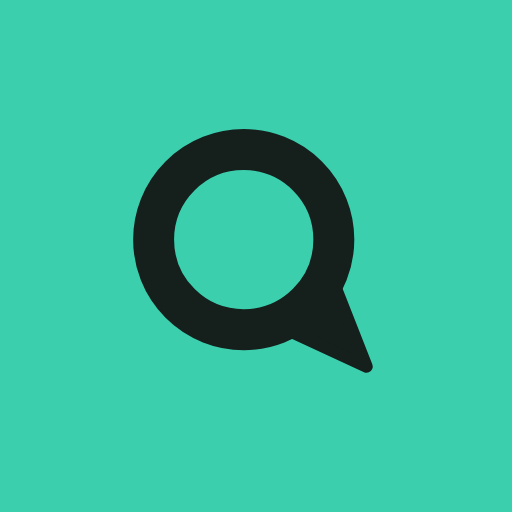
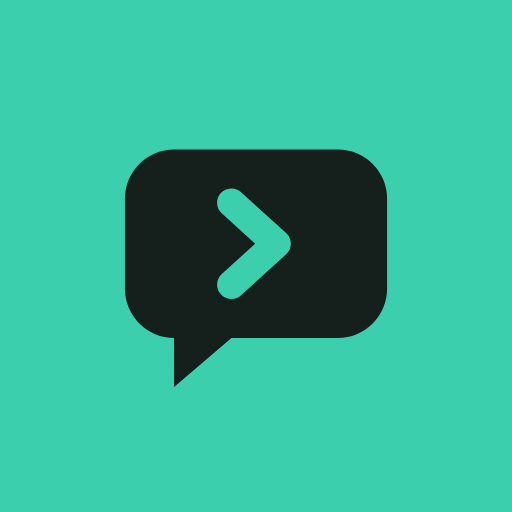
feat: 서비스 이름을 Say&Go로 변경
- 앱 이름 Say&Go (모든 언어 공통), 새 아이콘(말풍선 + 가자), QR 포스터·소개 문구
- Firebase 새 프로젝트 sayandgo-prod(서울)로 이전: DB·규칙·인덱스·로그인 방식 배포
- Cloudflare Pages sayandgo.pages.dev, 저장소 이름 sayandgo
- 코드 내부 이름(패키지, 기기 저장 키, 에뮬레이터 데모 프로젝트, 샘플 계정) 정리

Changed region(s): [[0.2188, 0.25, 0.7812, 0.75]]

diff --git a/web/src/lib/firebase.ts b/web/src/lib/firebase.ts
@@ -10,12 +10,12 @@ import {
 
 const env = import.meta.env;
 
-/** 실제 프로젝트 설정이 없으면 로컬 에뮬레이터(demo-qplace)로 붙는다. */
+/** 실제 프로젝트 설정이 없으면 로컬 에뮬레이터(demo-sayandgo)로 붙는다. */
 export const usingEmulator = env.VITE_USE_EMULATOR === 'true' || !env.VITE_FIREBASE_API_KEY;
 
 const app = initializeApp(
   usingEmulator
-    ? { apiKey: 'demo-key', authDomain: 'demo-qplace.firebaseapp.com', projectId: 'demo-qplace', appId: 'demo' }
+    ? { apiKey: 'demo-key', authDomain: 'demo-sayandgo.firebaseapp.com', projectId: 'demo-sayandgo', appId: 'demo' }
     : {
         apiKey: env.VITE_FIREBASE_API_KEY,
         authDomain: env.VITE_FIREBASE_AUTH_DOMAIN,
@@ -49,7 +49,7 @@ if (usingEmulator) {
   // 에뮬레이터 전용: ?devLogin=1 이면 샘플 사장님으로 로그인 (scripts/seed-emulator.mjs의 계정)
   if (typeof location !== 'undefined' && new URLSearchParams(location.search).has('devLogin')) {
     import('firebase/auth').then(({ signInWithEmailAndPassword }) =>
-      signInWithEmailAndPassword(auth, 'demo@qplace.test', 'coffee2024').catch(() => undefined),
+      signInWithEmailAndPassword(auth, 'demo@sayandgo.test', 'coffee2024').catch(() => undefined),
     );
   }
 }

diff --git a/web/src/pages/StorePage.tsx b/web/src/pages/StorePage.tsx
@@ -30,7 +30,7 @@ import { getStore } from '../lib/stores';
 import { QUESTION_KINDS, type Question, type QuestionKind, type Store } from '../lib/types';
 import { checkQuestion, LIMITS, tidyText } from '../lib/validation';
 
-const LAST_POST_KEY = 'qplace:lastPost';
+const LAST_POST_KEY = 'sayandgo:lastPost';
 const WAIT_SEC = 30;
 
 export function StorePage() {
@@ -312,7 +312,7 @@ function readLastPost(): number {
 /** 남기기: 종류 고르기 + 사장님만 보기 + 익명 안내. 버튼을 눌렀을 때만 열린다. */
 function ComposeSheet({ store, onClose, onPosted }: { store: Store; onClose: () => void; onPosted: (q: Question) => void }) {
   const { t } = useTranslation();
-  const draftKey = `qplace:draft:${store.code}`;
+  const draftKey = `sayandgo:draft:${store.code}`;
   const [text, setText] = useState(() => sessionStorage.getItem(draftKey) ?? '');
   const [kind, setKind] = useState<QuestionKind>('question');
   const [ownerOnly, setOwnerOnly] = useState(false);

diff --git a/web/src/components/ui/AppMark.tsx b/web/src/components/ui/AppMark.tsx
@@ -1,10 +1,10 @@
-/** 앱 아이콘 (public/favicon.svg와 같은 모양) */
+/** 앱 아이콘 (public/favicon.svg와 같은 모양): 말풍선 + 가자(›) */
 export function AppMark({ size = 56 }: { size?: number }) {
   return (
     <svg width={size} height={size} viewBox="0 0 100 100" aria-hidden="true">
       <rect width="100" height="100" rx="24" fill="#3ccfae" />
-      <circle cx="47" cy="46" r="22" fill="none" stroke="#15201d" strokeWidth="10" />
-      <path d="M68.8 56.1 L77 77 L57.1 67.8 Z" fill="#15201d" stroke="#15201d" strokeWidth="3" strokeLinejoin="round" />
+      <path d="M30 24h40a12 12 0 0 1 12 12v22a12 12 0 0 1-12 12H44l-14 12v-12a12 12 0 0 1-12-12V36a12 12 0 0 1 12-12Z" fill="#15201d" />
+      <path d="M44 37l11 10-11 10" fill="none" stroke="#3ccfae" strokeWidth="7" strokeLinecap="round" strokeLinejoin="round" />
     </svg>
   );
 }

diff --git a/web/src/lib/questions.ts b/web/src/lib/questions.ts
@@ -83,7 +83,7 @@ export function fetchPublicPage(code: string, sort: PublicSort, cursor: QueryDoc
 
 // ---------- 도움됐어요 ----------
 
-const votedKey = 'qplace:helpful';
+const votedKey = 'sayandgo:helpful';
 
 export function votedIds(): Set<string> {
   try {
@@ -135,7 +135,7 @@ async function ensureSignedIn(): Promise<User> {
   return auth.currentUser ?? (await signInAnonymously(auth)).user;
 }
 
-const mineKey = (code: string) => `qplace:mine:${code}`;
+const mineKey = (code: string) => `sayandgo:mine:${code}`;
 
 export function myQuestionIds(code: string): Set<string> {
   try {
@@ -183,7 +183,7 @@ export async function postQuestion(code: string, body: string, lang: string, kin
 }
 
 
-const reportedKey = 'qplace:reported';
+const reportedKey = 'sayandgo:reported';
 
 export function alreadyReported(targetId: string): boolean {
   try {

diff --git a/web/src/i18n/index.ts b/web/src/i18n/index.ts
@@ -19,7 +19,7 @@ i18n
     nonExplicitSupportedLngs: true, // ko-KR → ko
     load: 'languageOnly',
     // 국가보다 브라우저 언어 우선. 직접 고른 언어는 기억한다.
-    detection: { order: ['localStorage', 'navigator'], lookupLocalStorage: 'qplace:lang', caches: ['localStorage'] },
+    detection: { order: ['localStorage', 'navigator'], lookupLocalStorage: 'sayandgo:lang', caches: ['localStorage'] },
     interpolation: { escapeValue: false },
     returnObjects: true,
   });

diff --git a/web/index.html b/web/index.html
@@ -12,7 +12,7 @@
     <link rel="preconnect" href="https://cdn.jsdelivr.net" crossorigin />
     <!-- 필요한 글자만 받는 동적 서브셋 (전송량 절감) -->
     <link rel="stylesheet" href="https://cdn.jsdelivr.net/gh/orioncactus/pretendard@v1.3.9/dist/web/variable/pretendardvariable-dynamic-subset.min.css" />
-    <title>Q 플레이스</title>
+    <title>Say&amp;Go</title>
   </head>
   <body>
     <div id="root"></div>

diff --git a/web/src/pages/SharePage.tsx b/web/src/pages/SharePage.tsx
@@ -18,7 +18,7 @@ function Share({ store }: { store: Store }) {
   const toast = useToast();
   const url = storeUrl(store.code);
   const isLocal = /^(localhost|127\.|192\.168\.|10\.)/.test(location.hostname);
-  const fileName = `qplace-${store.code}.png`;
+  const fileName = `sayandgo-${store.code}.png`;
   const [poster, setPoster] = useState<{ blob: Blob; src: string } | null>(null);
 
   useEffect(() => {

diff --git a/tests/rules/rules.test.ts b/tests/rules/rules.test.ts
@@ -99,7 +99,7 @@ async function seed(fn: (db: Firestore) => Promise<void>) {
 
 beforeAll(async () => {
   env = await initializeTestEnvironment({
-    projectId: 'demo-qplace',
+    projectId: 'demo-sayandgo',
     firestore: {
       rules: readFileSync(new URL('../../firestore.rules', import.meta.url), 'utf8'),
       host: '127.0.0.1',

diff --git a/web/src/styles/app.css b/web/src/styles/app.css
@@ -1,4 +1,4 @@
-/* 큐플레이스 - 토큰과 공통 컴포넌트
+/* Say&Go - 토큰과 공통 컴포넌트
    원칙: 글꼴 하나(Pretendard), 민트는 주 버튼 · 답변 표시에만, 표면은 평평하게(선 1px 또는 톤 차이),
    그림자는 떠 있는 것(시트 · 토스트)에만. 크기 12/14/16/20/24. */
 

diff --git a/web/src/pages/AuthPages.tsx b/web/src/pages/AuthPages.tsx
@@ -222,7 +222,7 @@ export function LoginPage() {
   );
 }
 
-const RESEND_KEY = 'qplace:verifySentAt';
+const RESEND_KEY = 'sayandgo:verifySentAt';
 
 export function VerifyPage() {
   const { t } = useTranslation();
